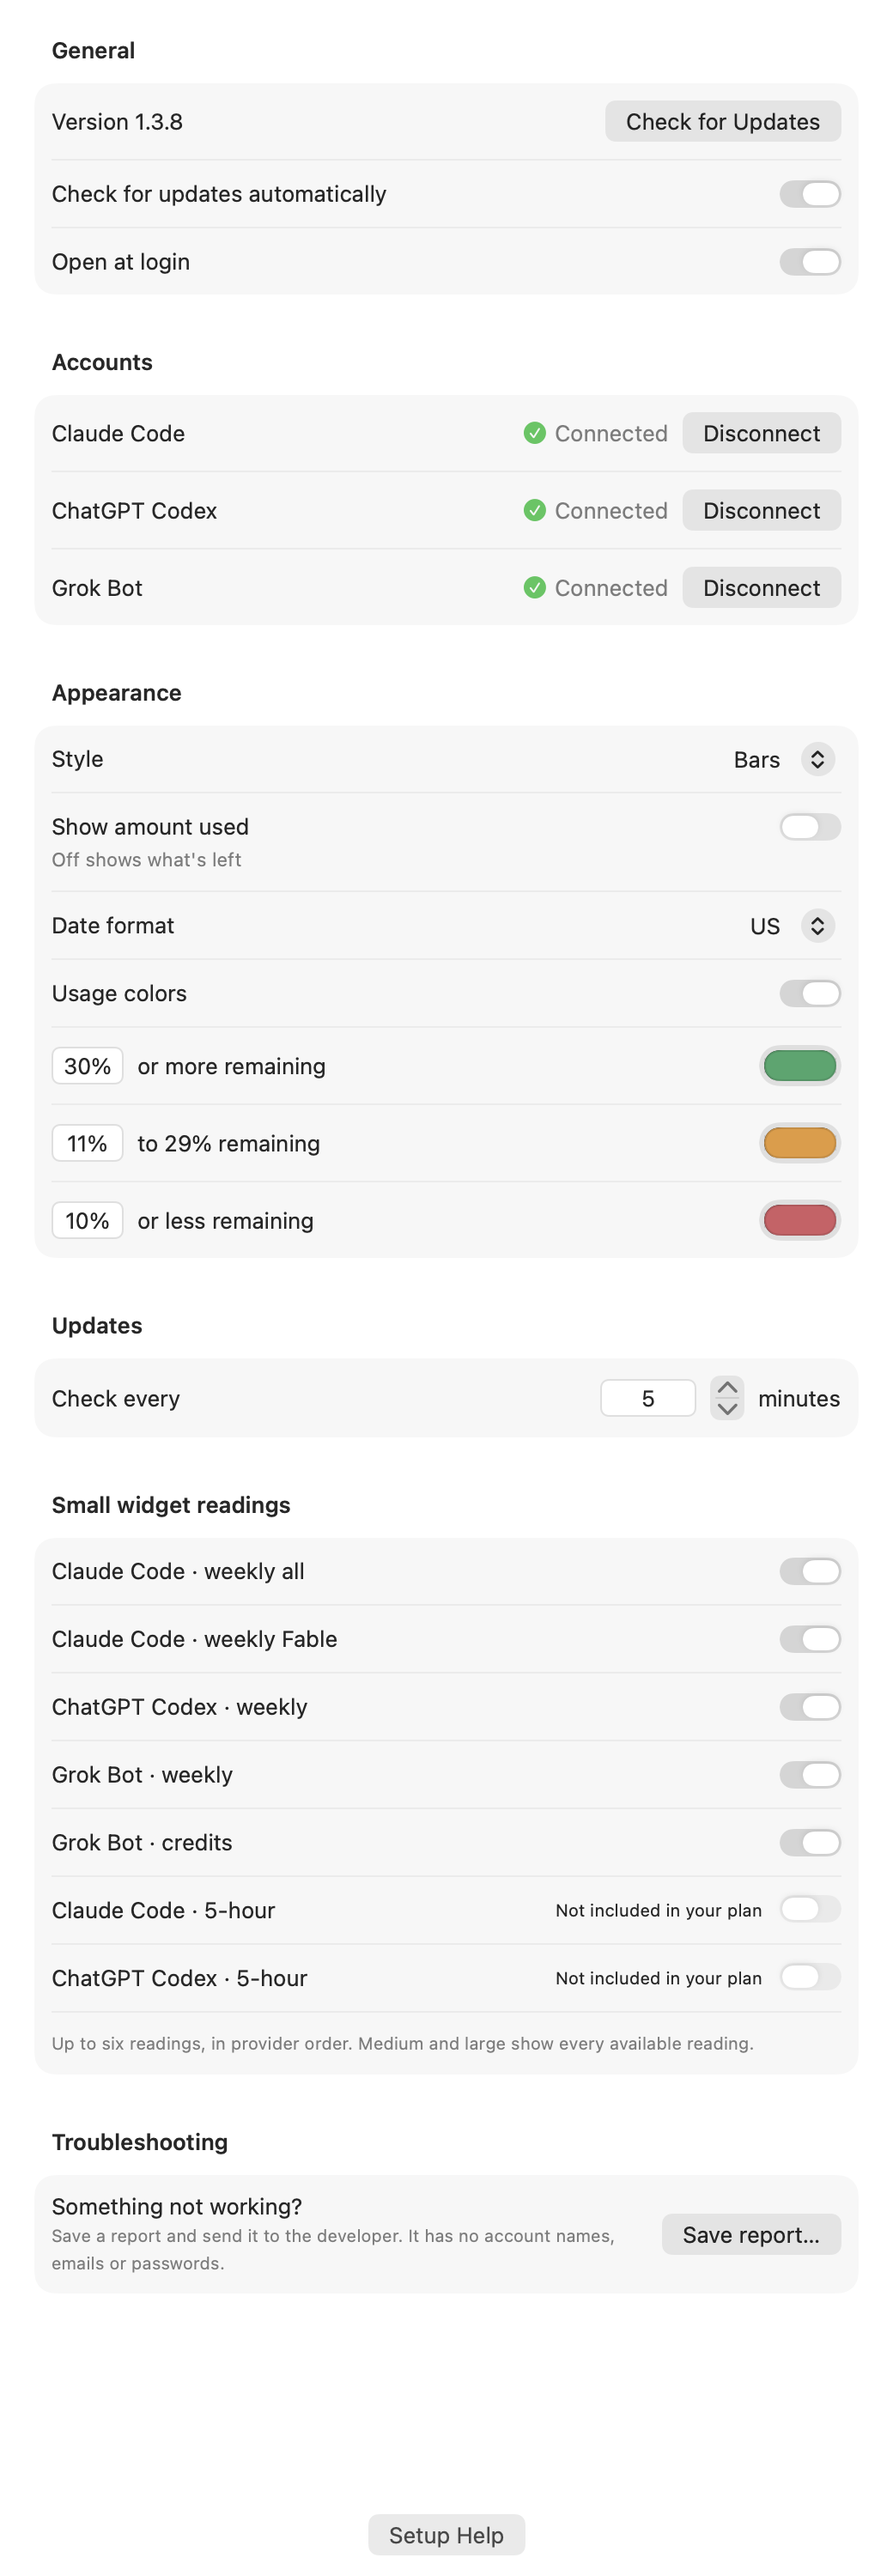
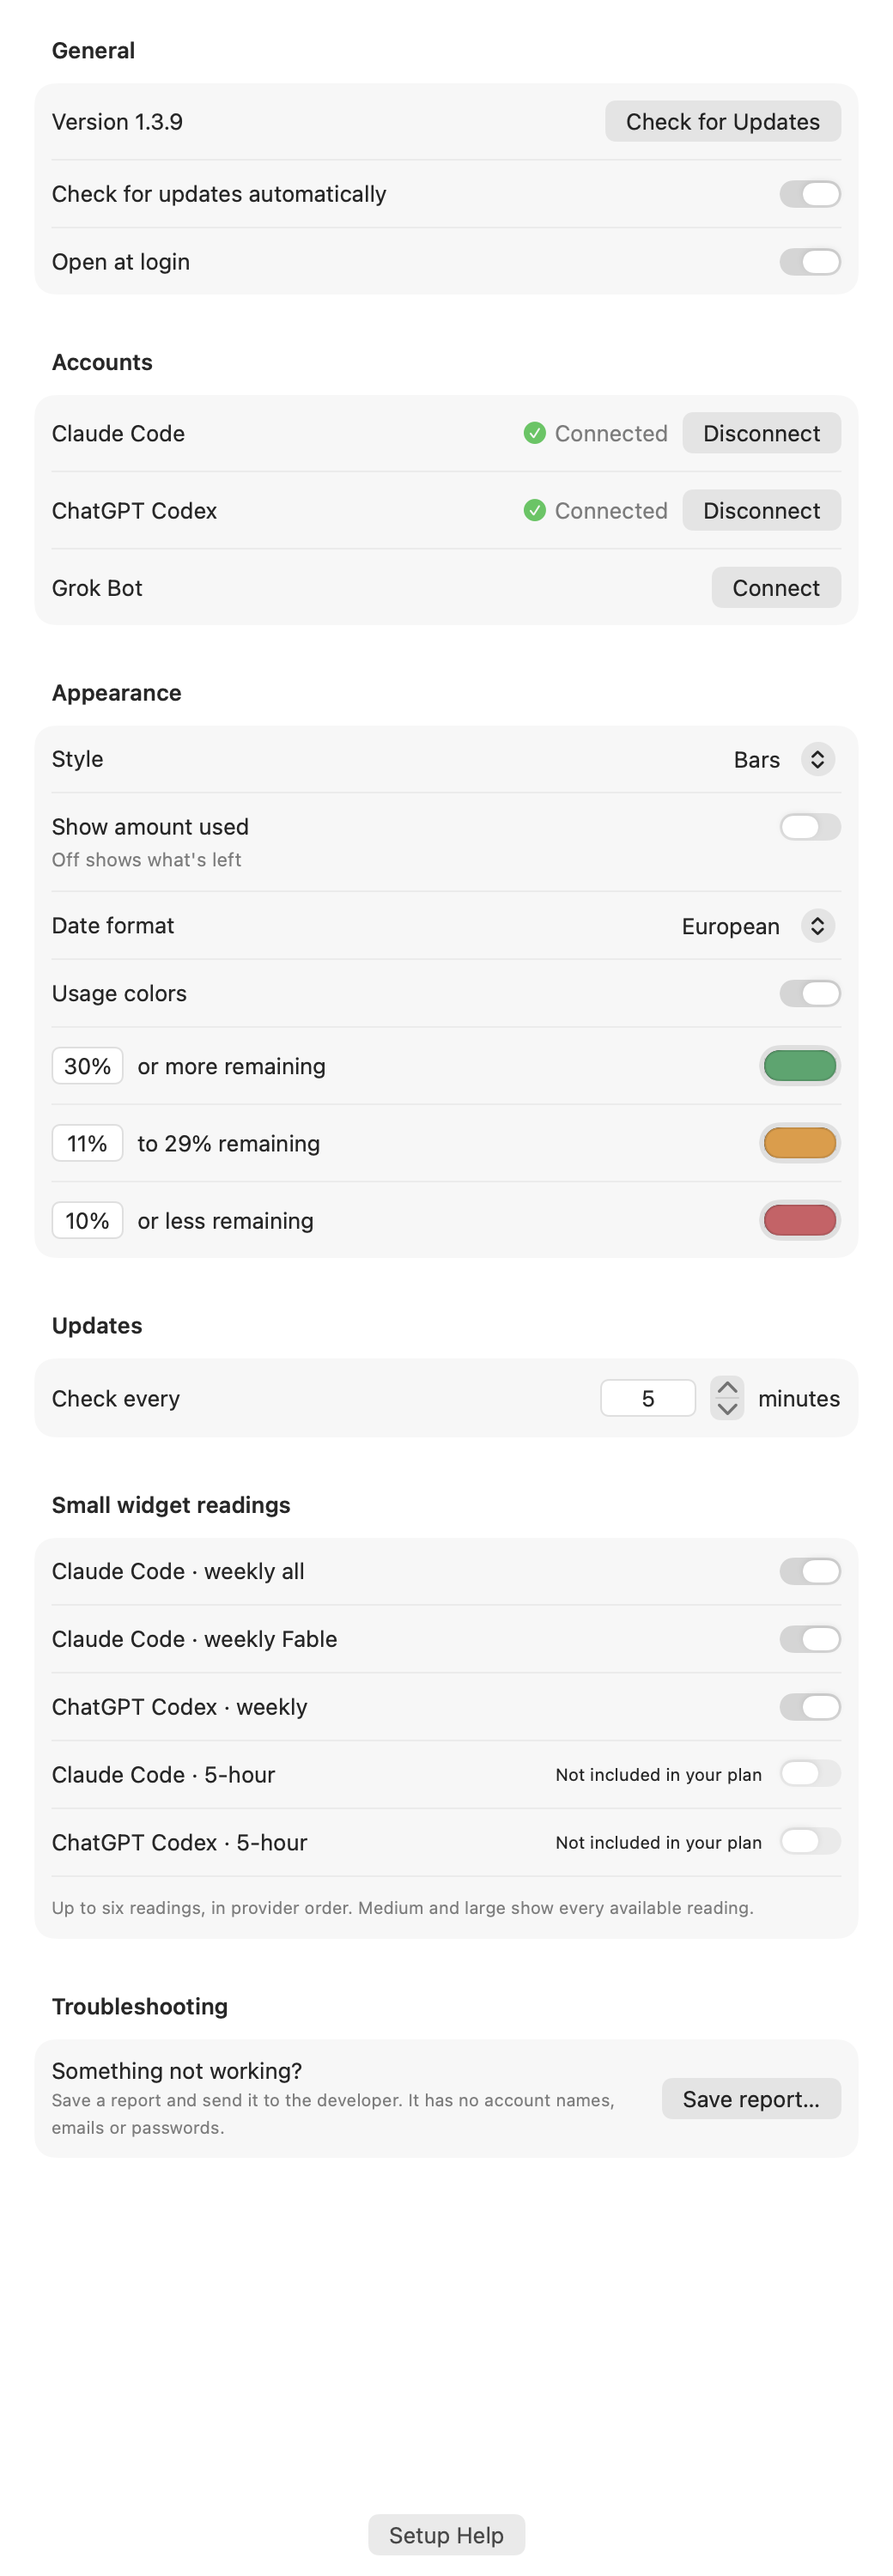
Release 1.3.9: fix false sign-in warning on Claude login expiry, add Grok credits switch, refresh pictures

diff --git a/Helper/Reader.swift b/Helper/Reader.swift
@@ -93,6 +93,12 @@ final class ChildProcess {
 }
 
 enum UsageReader {
+    /// True only when Claude says it is signed out. The "Your login expires in N days · run /login to renew"
+    /// warning appears while the sign-in still works, so it must not count.
+    static func signedOut(_ text: String) -> Bool {
+        let cleaned = replace("(?i)login expires in[\\s\\S]{0,80}?to renew", text)
+        return !matches("(?i)Not logged in|Login expired|run /login", cleaned).isEmpty
+    }
     static func matches(_ pattern: String, _ text: String) -> [[String]] {
         guard let regex = try? NSRegularExpression(pattern: pattern) else { return [] }
         return regex.matches(in: text, range: NSRange(text.startIndex..., in: text)).map { match in
@@ -179,7 +185,7 @@ enum UsageReader {
     static func codex(directory: URL, binary: String? = nil, timeout: Double = 15) throws -> [String: Any] {
         let child = try ChildProcess(binary: binary ?? find("codex"), arguments: ["app-server", "--listen", "stdio://"], directory: directory.path)
         defer { child.stop() }
-        try child.sendJSON(["id": 0, "method": "initialize", "params": ["clientInfo": ["name": "live_ai_usage_widget", "title": "Live AI Usage Widget", "version": "1.3.2"]]])
+        try child.sendJSON(["id": 0, "method": "initialize", "params": ["clientInfo": ["name": "live_ai_usage_widget", "title": "Live AI Usage Widget", "version": "1.3.9"]]])
         let start = ProcessInfo.processInfo.systemUptime
         var pending = Data(), total = 0, initialized = false
         while ProcessInfo.processInfo.systemUptime - start < timeout {
@@ -340,7 +346,7 @@ enum UsageReader {
             trace?("usage: " + String(decoding: data, as: UTF8.self))
             let text = try terminal(String(decoding: data, as: UTF8.self))
             if !matches("(?i)unknown option|unrecognized option", text).isEmpty { throw ReaderFailure("cli_update_required") }
-            if !matches("(?i)Not logged in|Login expired|run /login", text).isEmpty { throw ReaderFailure("sign_in_required") }
+            if signedOut(text) { throw ReaderFailure("sign_in_required") }
             if !sent, try answerFirstRun(text, child: child, answered: &firstRun) { data = Data(); continue }
             // Cancel only this optional opt-in. Never approve trust or permission prompts.
             if !sent && !dismissedAutoMode && text.contains("Permission Required: Make auto mode your default permission mode?") && text.contains("Escape to cancel:") {
@@ -420,7 +426,7 @@ extension UsageReader {
             trace?(plain(data))
             let text = plain(data)
             if !matches("(?i)unknown option|unrecognized option", text).isEmpty { throw ReaderFailure("cli_update_required") }
-            if !matches("(?i)Not logged in|Login expired|run /login", text).isEmpty { throw ReaderFailure("sign_in_required") }
+            if signedOut(text) { throw ReaderFailure("sign_in_required") }
             if try answerFirstRun(text, child: child, answered: &firstRun) { data = Data(); continue }
             if answers < 3 && text.contains("Accessing workspace:") && text.contains("Enter y/n:") {
                 let flat = text.replacingOccurrences(of: "\r", with: "").replacingOccurrences(of: "\n", with: "")

diff --git a/tests/ReaderTests.swift b/tests/ReaderTests.swift
@@ -23,6 +23,9 @@ import Darwin
         precondition(windows[0]["resets_at"] as? String == "2026-10-17T12:00:00Z")
         fails { _ = try UsageReader.claudePanel("Current session\n12% used\nResets 1pm", now: now) }
         fails { _ = try UsageReader.reset("Resets 29pm (UTC)", now: now, session: true) }
+        precondition(!UsageReader.signedOut("warning: Your login expires in 2 days \u{00B7} run /login to renew"))
+        precondition(!UsageReader.signedOut("Your login expires in 2 days \u{00B7}\nrun /login to renew"))
+        precondition(UsageReader.signedOut("Not logged in \u{00B7} run /login"))
         let rewritten = try UsageReader.terminal("99% used\r\u{1b}[2K12% used")
         precondition(rewritten == "12% used")
         let cleared = try UsageReader.terminal("old\nold\u{1b}[2Jfresh"); precondition(cleared == "fresh")

diff --git a/scripts/build.py b/scripts/build.py
@@ -34,8 +34,8 @@ def main():
     for folder, executable, bundle, kind in [(app, 'UsageWidget', args.bundle_id, 'APPL'),
                                             (extension, 'UsageWidgetExtension', args.bundle_id + '.widget', 'XPC!')]:
         info = dict(CFBundleDisplayName='Live AI Usage Widget', CFBundleName='Live AI Usage Widget', CFBundleExecutable=executable,
-                    CFBundleIdentifier=bundle, CFBundlePackageType=kind, CFBundleVersion='40',
-                    CFBundleShortVersionString='1.3.8', LSMinimumSystemVersion='14.0', UsageAppGroup=group)
+                    CFBundleIdentifier=bundle, CFBundlePackageType=kind, CFBundleVersion='41',
+                    CFBundleShortVersionString='1.3.9', LSMinimumSystemVersion='14.0', UsageAppGroup=group)
         if kind == 'XPC!':
             info['NSExtension'] = {'NSExtensionPointIdentifier': 'com.apple.widgetkit-extension'}
         else:

diff --git a/scripts/claude_usage_cli.py b/scripts/claude_usage_cli.py
@@ -211,7 +211,9 @@ def fetch(timeout=35):
             text = plain(buffer.decode('utf-8', 'replace'))
             if re.search(r'unknown option|unrecognized option', text, re.I):
                 raise UsageUnavailable('cli_update_required')
-            if re.search(r'Not logged in|Login expired|run /login', text, re.I):
+            # "Your login expires in N days · run /login to renew" is only a warning; sign-in still works.
+            signed_out = re.sub(r'login expires in[\s\S]{0,80}?to renew', '', text, flags=re.I)
+            if re.search(r'Not logged in|Login expired|run /login', signed_out, re.I):
                 raise UsageUnavailable('sign_in_required')
             if (not sent and not dismissed_auto_mode
                     and 'Permission Required: Make auto mode your default permission mode?' in text

diff --git a/scripts/package.py b/scripts/package.py
@@ -34,7 +34,7 @@ def main():
         contents[name] = data
     destination = ROOT / 'dist'
     destination.mkdir(exist_ok=True)
-    archive = destination / 'live-ai-usage-widget-1.3.4-source.zip'
+    archive = destination / 'live-ai-usage-widget-1.3.9-source.zip'
     with zipfile.ZipFile(archive, 'w', compression=zipfile.ZIP_DEFLATED) as output:
         for name, data in sorted(contents.items()):
             info = zipfile.ZipInfo('live-ai-usage-widget/' + name, date_time=(2026, 1, 1, 0, 0, 0))

diff --git a/README.md b/README.md
@@ -2,7 +2,7 @@
 
 A macOS desktop widget that shows how much of your Claude Code, ChatGPT Codex and Grok Bot usage limits are left, or how much you have used. Small, medium and large widgets come in two styles: Bars (default), which shows what is left, and Solar, rings that fill clockwise as you use your limits. Accounts and data stay on your own Mac.
 
-**[Download for Mac (Apple Silicon)](https://github.com/jeremymorrison77/live-ai-usage-widget/releases/latest/download/Live-AI-Usage-Widget-1.3.1-macOS-arm64.zip)** · public version 1.3.1 · macOS 14 or later · M1 or newer
+**[Download for Mac (Apple Silicon)](https://github.com/jeremymorrison77/live-ai-usage-widget/releases/latest/download/Live-AI-Usage-Widget-1.3.9-macOS-arm64.zip)** · public version 1.3.9 · macOS 14 or later · M1 or newer
 
 <p align="center"><img src="docs/images/overview.png" alt="Settings window and the widget in all sizes and styles" width="100%"></p>
 
@@ -10,7 +10,7 @@ Pictures are drawn from the app's own views using current local readings and set
 
 [Bars: small](docs/images/clean-small.png) · [medium](docs/images/clean-medium.png) · [large](docs/images/clean-large.png) · [Solar: small](docs/images/solar-small.png) · [medium](docs/images/solar-medium.png) · [large](docs/images/solar-large.png) · [Settings](docs/images/settings.png)
 
-**Latest downloadable release: 1.3.1. Current source on GitHub and the installed app: 1.3.8 (build 40), with no release built from it yet** (checked 11/07/2026). The download link above gets 1.3.1 until a later release is published. Apple Silicon Macs, macOS 14 or later. Public releases are signed and notarized by Apple.
+**Latest downloadable release: 1.3.9** (11/17/2026). Apple Silicon Macs, macOS 14 or later. Public releases are signed and notarized by Apple.
 
 ## Download and install
 

diff --git a/docs/CLAUDE-HANDOFF.md b/docs/CLAUDE-HANDOFF.md
@@ -1,6 +1,6 @@
 # Maintainer handoff
 
-Current local and installed version: **1.3.8 (build 40), Apple Silicon, macOS 14+** (Git main 25e7bda, clean, matches the GitHub main branch, checked 11/07/2026). Latest GitHub release: **1.3.1**. The 1.3.2 through 1.3.8 source is on GitHub, but no release or tag exists for any of those versions. Owner: Systems and Comms Manager (assigned 11/07/2026). The Grok feed stays quarantined and the legacy Icarus publisher stays until its consumers are reconciled. Remaining release gates: Jeremy's direct approval to push and publish, CI, a signed and notarized build of the final version, published-download checksum check, and a clean-Mac check. This repository is the whole project; it has no parent workspace. The 1.3.2 notes below are historical.
+Current version: **1.3.9 (build 41), Apple Silicon, macOS 14+**, released 11/17/2026 (Jeremy approved publishing). Release 1.3.9 includes the Claude login-expiry warning fix, the Grok credits switch and refreshed pictures. Owner: Systems and Comms Manager. The Grok feed stays quarantined and the legacy Icarus publisher stays until its consumers are reconciled. Open: clean-Mac check of the published download. This repository is the whole project; it has no parent workspace. The 1.3.2 notes below are historical.
 
 ## Current state
 

diff --git a/docs/RELEASE-CHECKLIST.md b/docs/RELEASE-CHECKLIST.md
@@ -1,6 +1,6 @@
 # Release acceptance
 
-**Status (11/07/2026):** local source and installed app are 1.3.8 (build 40); the latest GitHub release is 1.3.1. The 1.3.8 source is on GitHub, but no release exists after 1.3.1. Open gates before any release: Jeremy's direct approval to push and publish, CI, signed and notarized build of the final version, published-download checksum check, clean-Mac check. The 1.3.2 record below is historical.
+**Status (11/17/2026):** 1.3.9 (build 41) is signed, notarized (Apple submission ce4e7072-be4e-4a70-915c-da85797fc010, Accepted) and published as the latest release. Remaining: clean-Mac check of the published download. The 1.3.2 record below is historical.
 
 Version 1.3.2 (build 34), prepared locally on November 2, 2026; publication is pending Icarus review. A signed, notarized Apple Silicon ZIP is prepared. Notarization establishes Apple's distribution check, not compatibility with every account or Mac.
 

diff --git a/CHANGELOG.md b/CHANGELOG.md
@@ -1,8 +1,11 @@
 # Changelog
 
-## Unreleased (not built or published)
+## 1.3.9 (build 41)
 
+- Fix Claude Code readings failing with "sign in required" when the login is about to expire. The notice "Login expires in ... to renew" is no longer mistaken for being signed out.
 - Add a separate Grok Bot credits switch in Settings, last in the Small widget readings list, shown while Grok Bot is on. It hides only Grok's dollar credits row in the widgets, the menu line and the row count; Grok's weekly reading keeps its own controls. Default on, so existing settings files behave as before.
+- Add Disconnect beside Try Again for Grok Bot.
+- Refresh every picture (Bars and Solar in small, medium and large, and the full Settings panel).
 
 ## 1.3.8 (build 40)
 
